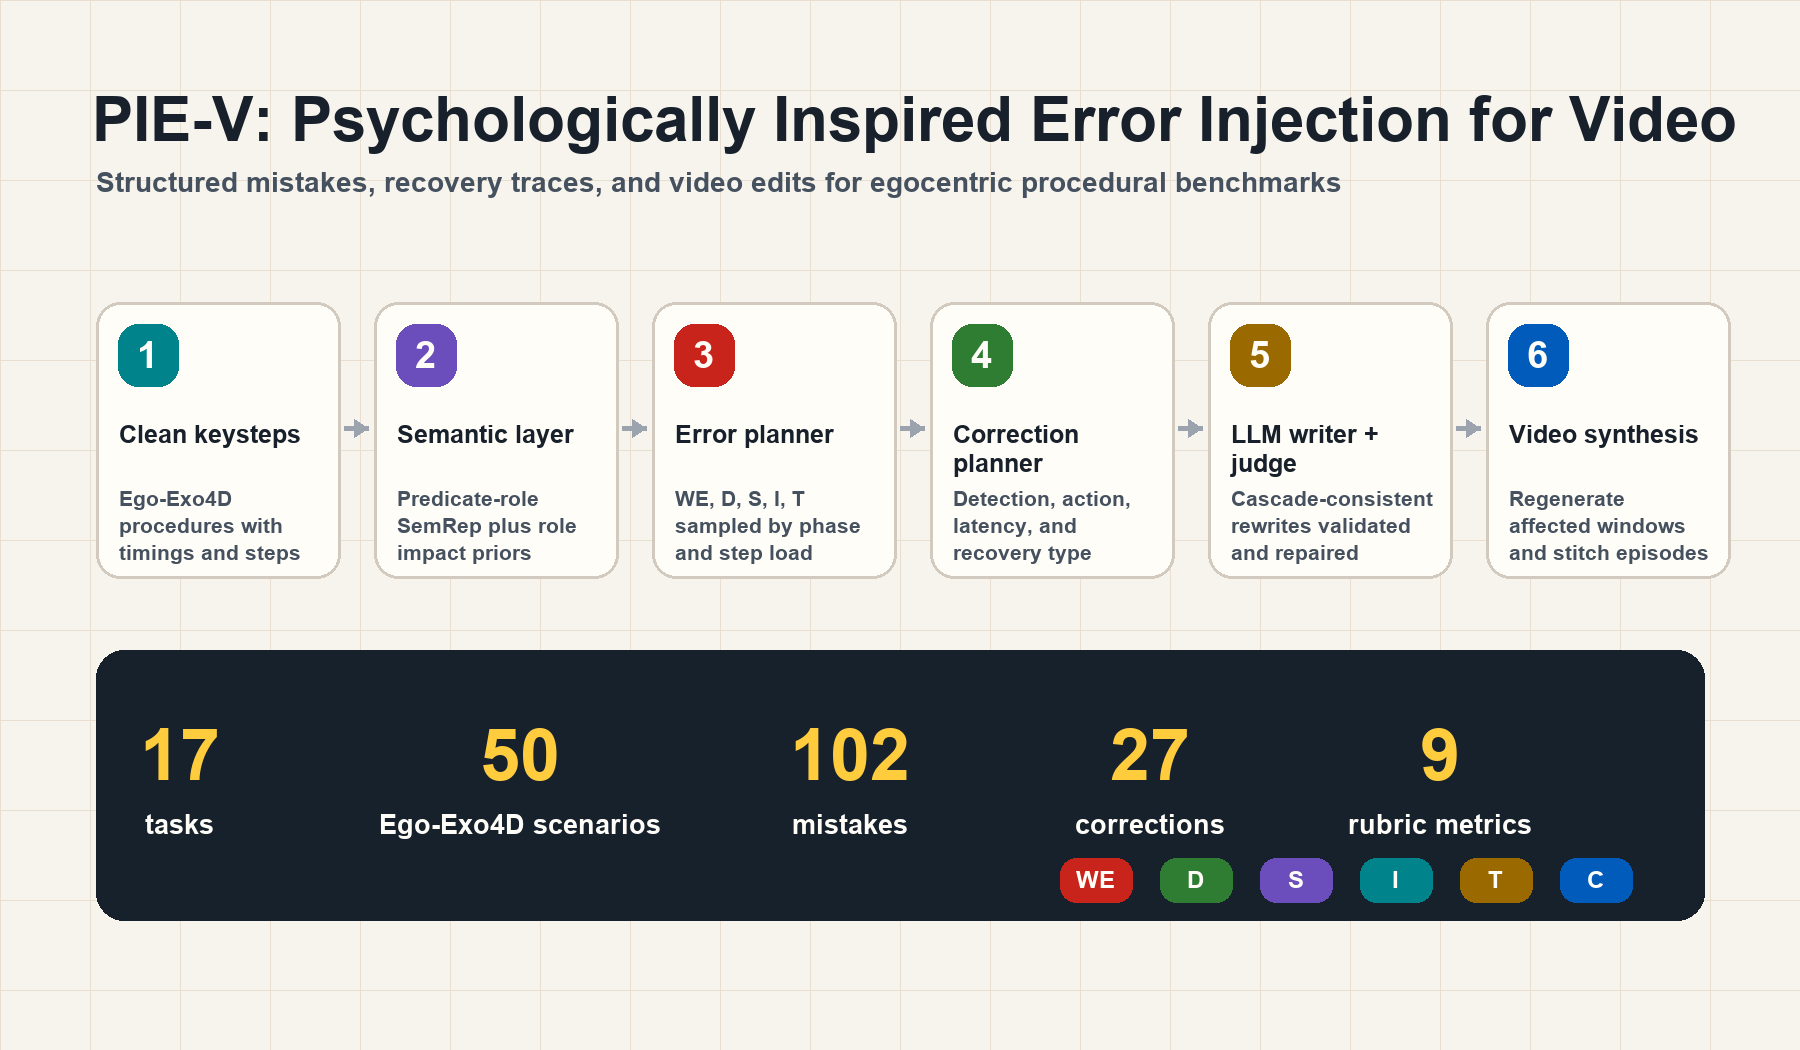
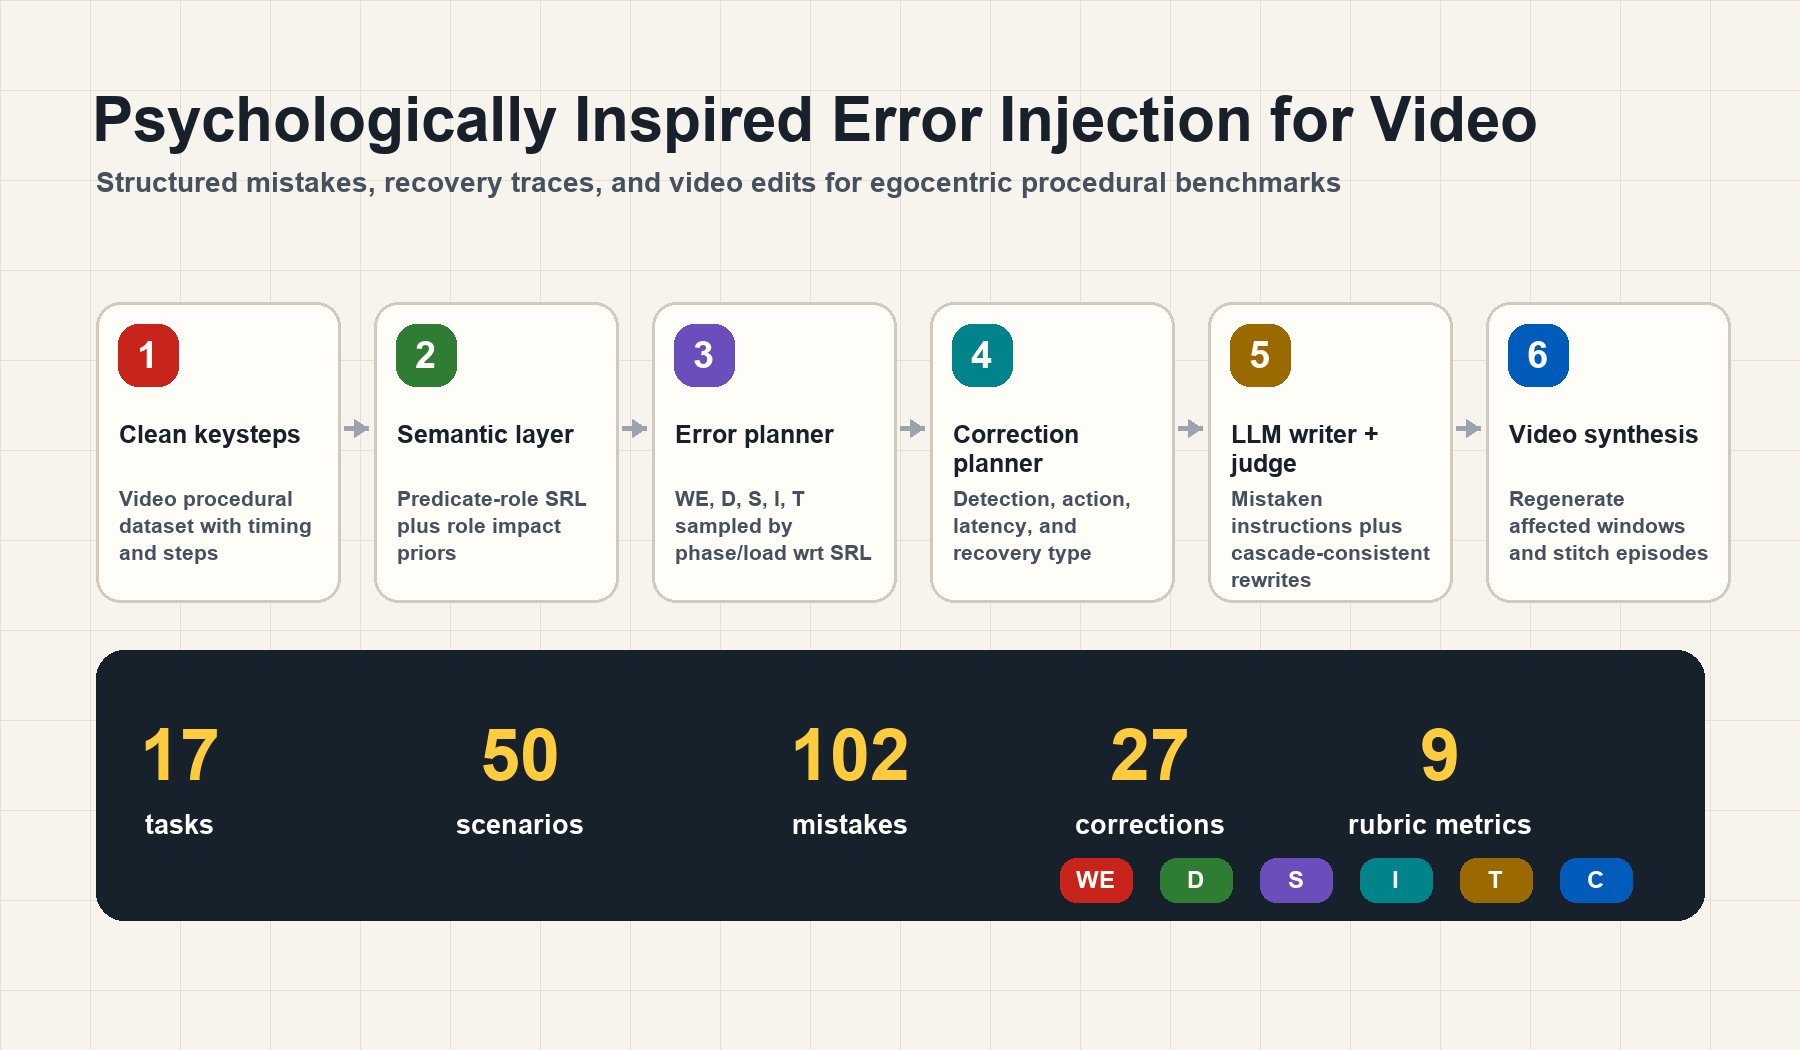
Refine taxonomy and pipeline visual

diff --git a/docs/index.html b/docs/index.html
@@ -60,8 +60,8 @@
           <p>
             PIE-V is a pipeline to create examples of erroneous procedure
             execution where mistakes are not random, scripted, or staged, but
-            <em>human-plausible deviations with explicit procedural consequences
-            and, when appropriate, recoveries</em>. It constructs controlled
+            <strong>human-plausible deviations with explicit procedural consequences
+            and, when appropriate, recoveries</strong>. It constructs controlled
             mistake-aware egocentric procedural videos from clean
             keystep-annotated procedures.
           </p>
@@ -88,9 +88,9 @@
           <article>
             <h3>Ego-Exo4D Subset</h3>
             <p>
-              PIE-V starts from 17 Ego-Exo4D keystep tasks, covering COVID test
-              procedures, bicycle repair, CPR, and cooking tasks such as salads,
-              noodles, omelets, tea, pasta, coffee latte, and sushi rolls. The
+              PIE-V starts from 17 Ego-Exo4D keystep tasks: COVID test
+              procedures, bicycle repair, CPR, and cooking tasks (e.g., salads,
+              noodles, omelets, tea, pasta, and sushi rolls). The
               subset contains
               <a href="https://github.com/ologin/PIE-V/blob/main/data/manifests/take_names.txt">50 takes</a>:
               three videos per task, except Cooking Sushi Rolls, where only one
@@ -105,7 +105,7 @@
               The planner samples 102 mistakes across the 50 takes. Sampling is
               conditioned on video duration, step complexity, task complexity,
               procedure phase, working-memory load, and semantic step
-              information from semantic role labeling. The
+              information from SRL. The
               <a href="https://github.com/ologin/PIE-V/tree/main/data/resources">semantic resources</a>
               and
               <a href="https://github.com/ologin/PIE-V/tree/main/data/examples">generated text examples</a>
@@ -132,7 +132,7 @@
               <a href="https://github.com/ologin/PIE-V/blob/main/data/annotations/annotation_summary.csv">annotation summary</a>
               and
               <a href="https://github.com/ologin/PIE-V/blob/main/data/annotations/PIE-V_Annotation_Template.xlsx">annotation template</a>
-              document the rating fields.
+              document the rating.
             </p>
           </article>
         </div>
@@ -173,7 +173,6 @@
             <h3>Transposition</h3>
             <p>Two locally plausible steps are executed in the wrong order.</p>
           </article>
-          <div class="taxonomy-plus" aria-hidden="true">+</div>
           <article class="taxonomy-card tax-c">
             <span>C</span>
             <h3>Correction</h3>

diff --git a/docs/styles.css b/docs/styles.css
@@ -172,6 +172,18 @@ h1 {
   border-color: var(--blue);
 }
 
+.link-row a:nth-child(2) {
+  color: #ffffff;
+  background: var(--d);
+  border-color: var(--d);
+}
+
+.link-row a:nth-child(3) {
+  color: #ffffff;
+  background: var(--we);
+  border-color: var(--we);
+}
+
 .teaser {
   padding: 16px 0 30px;
 }
@@ -224,9 +236,8 @@ h3 {
   max-width: 880px;
 }
 
-.lead-copy em {
+.lead-copy strong {
   color: var(--ink);
-  font-style: italic;
   font-weight: 760;
 }
 
@@ -239,25 +250,37 @@ h3 {
 
 .method-grid {
   display: grid;
-  grid-template-columns: repeat(2, minmax(0, 1fr));
+  grid-template-columns: repeat(10, minmax(0, 1fr));
   gap: 18px;
 }
 
 .method-grid article {
-  min-height: 210px;
   padding: 22px;
   border: 1px solid var(--line);
   border-radius: 8px;
-  background: var(--soft);
+  background: var(--warm-bg);
+}
+
+.method-grid article:nth-child(1),
+.method-grid article:nth-child(2) {
+  grid-column: span 5;
+}
+
+.method-grid article:nth-child(3) {
+  grid-column: 2 / span 4;
+}
+
+.method-grid article:nth-child(4) {
+  grid-column: 6 / span 4;
 }
 
 .method-grid h3 {
-  color: var(--blue);
+  color: var(--ink);
 }
 
 .taxonomy-flow {
   display: grid;
-  grid-template-columns: repeat(4, minmax(0, 1fr));
+  grid-template-columns: repeat(3, minmax(0, 1fr));
   gap: 16px;
   align-items: stretch;
 }
@@ -314,15 +337,6 @@ h3 {
 
 .tax-c {
   background: var(--c);
-}
-
-.taxonomy-plus {
-  display: flex;
-  align-items: center;
-  justify-content: center;
-  color: var(--ink);
-  font-size: 2.8rem;
-  font-weight: 760;
 }
 
 .example-grid {
@@ -442,8 +456,8 @@ td:first-child {
 }
 
 .highlight-row td {
-  color: #173f2b;
-  background: #e7f5ee;
+  color: #ffffff;
+  background: var(--t);
   font-weight: 780;
 }
 
@@ -502,12 +516,12 @@ td:first-child {
     grid-template-columns: 1fr;
   }
 
-  .taxonomy-flow {
-    grid-template-columns: repeat(2, minmax(0, 1fr));
+  .method-grid article:nth-child(n) {
+    grid-column: auto;
   }
 
-  .taxonomy-plus {
-    min-height: 60px;
+  .taxonomy-flow {
+    grid-template-columns: repeat(2, minmax(0, 1fr));
   }
 
   .example-card h3 {

diff --git a/docs/make_pipeline_asset.py b/docs/make_pipeline_asset.py
@@ -22,7 +22,7 @@ LINE = "#d2cabf"
 DARK = "#17212c"
 WHITE = "#fffdf8"
 YELLOW = "#ffcc3d"
-COLORS = ["#00838a", "#6b4dbb", "#c9241c", "#2e7d32", "#9a6a00", "#005bbb"]
+COLORS = ["#c9241c", "#2e7d32", "#6b4dbb", "#00838a", "#9a6a00", "#005bbb"]
 
 
 def font(size: int, bold: bool = False) -> ImageFont.FreeTypeFont:
@@ -86,7 +86,7 @@ def main() -> None:
     draw = ImageDraw.Draw(img)
     draw_grid(draw)
 
-    draw.text((92, 84), "PIE-V: Psychologically Inspired Error Injection for Video", font=FONT_TITLE, fill=INK)
+    draw.text((92, 84), "Psychologically Inspired Error Injection for Video", font=FONT_TITLE, fill=INK)
     draw.text(
         (96, 166),
         "Structured mistakes, recovery traces, and video edits for egocentric procedural benchmarks",
@@ -95,16 +95,16 @@ def main() -> None:
     )
 
     cards = [
-        ("1", "Clean keysteps", "Ego-Exo4D procedures with timings and steps"),
-        ("2", "Semantic layer", "Predicate-role SemRep plus role impact priors"),
-        ("3", "Error planner", "WE, D, S, I, T sampled by phase and step load"),
+        ("1", "Clean keysteps", "Video procedural dataset with timing and steps"),
+        ("2", "Semantic layer", "Predicate-role SRL plus role impact priors"),
+        ("3", "Error planner", "WE, D, S, I, T sampled by phase/load wrt SRL"),
         ("4", "Correction planner", "Detection, action, latency, and recovery type"),
-        ("5", "LLM writer + judge", "Cascade-consistent rewrites validated and repaired"),
+        ("5", "LLM writer + judge", "Mistaken instructions plus cascade-consistent rewrites"),
         ("6", "Video synthesis", "Regenerate affected windows and stitch episodes"),
     ]
 
     x0, y0 = 96, 302
-    cw, ch, gap = 244, 276, 34
+    cw, ch, gap = 244, 300, 34
     for i, (num, title, body) in enumerate(cards):
         x = x0 + i * (cw + gap)
         draw.rounded_rectangle((x, y0, x + cw, y0 + ch), radius=24, fill=WHITE, outline=LINE, width=3)
@@ -117,7 +117,7 @@ def main() -> None:
 
     band = (96, 650, W - 96, 920)
     draw.rounded_rectangle(band, radius=28, fill=DARK)
-    stats = [("17", "tasks"), ("50", "Ego-Exo4D scenarios"), ("102", "mistakes"), ("27", "corrections"), ("9", "rubric metrics")]
+    stats = [("17", "tasks"), ("50", "scenarios"), ("102", "mistakes"), ("27", "corrections"), ("9", "rubric metrics")]
     stat_x = [180, 520, 850, 1150, 1440]
     for (value, label), x in zip(stats, stat_x):
         draw.text((x, 755), value, font=FONT_STAT, fill=YELLOW, anchor="mm")
